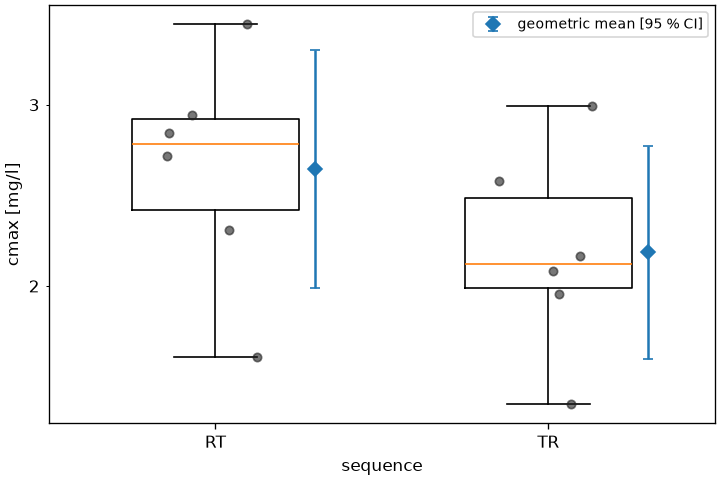
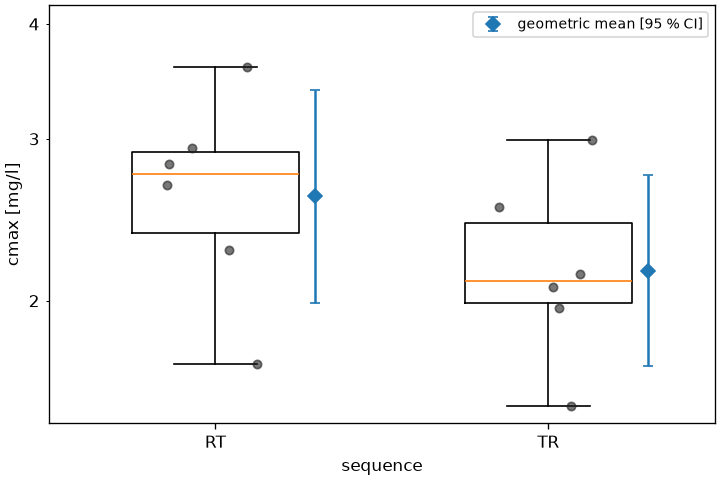
Make room above the data for the legend of a parameter plot
The legend of plot_parameters went where loc="best" put it, which avoids points and lines but not error bars: it covered the interval of a group in a single figure and points, boxes and intervals in the panels of a caller's figure, and elsewhere sat right on the cap of an interval.

legend_above_data in plot/_common.py draws the legend in the upper right corner of the axes, one row when that fits the width of the axes and one column otherwise, measures its height against the axes on the drawn figure as annotation_room does, and raises the top of the y axis until the data ends a small gap below it, on a logarithmic axis by the same share of its decades. The room is measured when the function runs, so a layout the caller changes heavily afterwards can bring the data back under the legend, the limitation make_room_right shares. A legend outside the axes was the alternative, but without a layout engine it runs into titles and neighbouring panels, and with one a single row collapses narrow panels.

The figure of the bioequivalence example in the documentation is rendered again.

diff --git a/tests/plot/test_plot_parameters.py b/tests/plot/test_plot_parameters.py
@@ -7,8 +7,10 @@ import pytest
 import xarray as xr
 from matplotlib import cbook
 from matplotlib.axes import Axes
+from matplotlib.collections import LineCollection
 from matplotlib.container import ErrorbarContainer
 from matplotlib.figure import Figure
+from matplotlib.lines import Line2D
 
 from pkpdutils import Route, Timecourses, nca
 from pkpdutils.plot import plot_parameters
@@ -305,4 +307,89 @@ def test_plot_parameters_log_without_positive_values_stays_linear() -> None:
     legend = ax.get_legend()
     assert legend is not None
     assert [text.get_text() for text in legend.get_texts()] == ["mean [95 % CI]"]
+    matplotlib.pyplot.close(fig)
+
+
+def _covered_by_legend(ax: Axes) -> list[str]:
+    """The data artists of `ax` the legend covers on the drawn canvas.
+
+    A point is covered when its marker reaches into the legend, a line of a
+    box when it crosses the legend and an error bar when its bar does.
+    """
+    figure = ax.get_figure(root=True)
+    assert isinstance(figure, Figure)
+    figure.canvas.draw()
+    legend = ax.get_legend()
+    assert legend is not None
+    box = legend.get_window_extent()
+    covered = []
+    for line in ax.lines:
+        path = line.get_transform().transform_path(line.get_path())
+        if line.get_linestyle() == "None":
+            grown = box.padded(line.get_markersize() * figure.dpi / 72.0 / 2.0)
+            vertices = np.asarray(path.vertices, dtype=float)
+            points = vertices[np.isfinite(vertices).all(axis=1)]
+            if any(grown.contains(float(x), float(y)) for x, y in points):
+                covered.append(f"marker {line.get_marker()}")
+        elif path.intersects_bbox(box, filled=False):
+            covered.append("box")
+    for collection in ax.collections:
+        for segment in collection.get_paths():
+            path = collection.get_transform().transform_path(segment)
+            if path.intersects_bbox(box, filled=False):
+                covered.append("error bar")
+    return covered
+
+
+_LEGEND_GROUPS = {
+    "A": [1.0, 2.0, 4.0, 8.0],
+    "B": [0.0, -1.0, -2.0, 0.0],
+    "C": [5.0],
+    "D": [2.0, 4.0, 8.0, -1.0],
+}
+
+
+@pytest.mark.parametrize(
+    ("shape", "layout"),
+    [
+        (None, None),
+        ((1, 2), None),
+        ((1, 2), "constrained"),
+        ((2, 1), None),
+        ((2, 1), "constrained"),
+    ],
+    ids=["figure", "1x2", "1x2-constrained", "2x1", "2x1-constrained"],
+)
+def test_plot_parameters_legend_covers_no_data(
+    shape: tuple[int, int] | None, layout: str | None
+) -> None:
+    # the legend used to go where `loc="best"` put it, which ignores the error
+    # bars: with these groups it sat on the interval of D
+    result = _grouped_result(_LEGEND_GROUPS)
+    with warnings.catch_warnings():
+        warnings.simplefilter("error")
+        if shape is None:
+            fig = plot_parameters(result, "value", "individual", by="group", log_y=True)
+            axes = fig.axes
+        else:
+            fig, grid = matplotlib.pyplot.subplots(*shape, layout=layout)
+            axes = list(grid.flat)
+            for ax in axes:
+                ax.set_title("a panel")
+            for ax in axes:
+                plot_parameters(
+                    result, "value", "individual", by="group", log_y=True, ax=ax
+                )
+        for ax in axes:
+            assert _covered_by_legend(ax) == []
+    # the entries are the markers of the statistics with their error bars
+    legend = axes[0].get_legend()
+    assert legend is not None
+    assert [text.get_text() for text in legend.get_texts()] == [
+        "geometric mean [95 % CI]",
+        "mean [95 % CI]",
+    ]
+    markers = {str(line.get_marker()) for line in legend.findobj(Line2D)}
+    assert {"D", "s"} <= markers
+    assert legend.findobj(LineCollection)  # the bars of the error bars
     matplotlib.pyplot.close(fig)

diff --git a/tests/plot/test_plot_common.py b/tests/plot/test_plot_common.py
@@ -6,6 +6,8 @@ import matplotlib.pyplot
 import numpy as np
 import pytest
 import xarray as xr
+from matplotlib.axes import Axes
+from matplotlib.figure import Figure
 from matplotlib.patches import Rectangle
 
 from pkpdutils import Dose, Dosing, Route
@@ -20,6 +22,7 @@ from pkpdutils.plot._common import (
     format_value,
     group_colors,
     group_order,
+    legend_above_data,
     log_scale,
     make_room_right,
     plain_log_ticks,
@@ -252,6 +255,60 @@ def test_annotate_column_writes_one_text_per_row() -> None:
     ax.plot([1.0, 2.0], [0.0, 1.0])
     annotate_column(ax, [(0.0, "a"), (1.0, "b")], 0.7)
     assert [text.get_text() for text in ax.texts] == ["a", "b"]
+    matplotlib.pyplot.close(fig)
+
+
+def _data_top(ax: Axes) -> float:
+    """The highest pixel of the lines, markers and error bars of `ax` on the drawn canvas."""
+    figure = ax.get_figure(root=True)
+    assert isinstance(figure, Figure)
+    tops = []
+    for line in ax.lines:
+        points = line.get_transform().transform(np.asarray(line.get_xydata()))
+        radius = line.get_markersize() * figure.dpi / 72.0 / 2.0
+        tops.append(float(np.nanmax(points[:, 1])) + radius)
+    for collection in ax.collections:
+        for path in collection.get_paths():
+            points = collection.get_transform().transform(path.vertices)
+            tops.append(float(np.nanmax(points[:, 1])))
+    return max(tops)
+
+
+@pytest.mark.parametrize("log", [False, True])
+def test_legend_above_data_raises_the_top_above_the_data(log: bool) -> None:
+    fig, ax = matplotlib.pyplot.subplots(layout="constrained")
+    x = np.arange(1.0, 6.0)
+    line = ax.plot(x, [1.0, 3.0, 10.0, 30.0, 100.0], marker="o", label="individuals")
+    bar = ax.errorbar([5.3], [60.0], yerr=[[20.0], [40.0]], marker="D", capsize=3)
+    bar.set_label("mean [95 % CI]")
+    if log:
+        log_scale(ax, "y")
+    low, high = ax.get_ylim()
+    legend = legend_above_data(ax, [line[0], bar])
+    assert legend is ax.get_legend() and legend is not None
+    assert ax.get_ylim()[0] == low
+    assert ax.get_ylim()[1] > high
+    fig.canvas.draw()
+    assert _data_top(ax) < legend.get_window_extent().y0
+    # a wide axes takes the legend in one row
+    assert len({text.get_window_extent().y0 for text in legend.get_texts()}) == 1
+    assert legend_above_data(ax, []) is None
+    matplotlib.pyplot.close(fig)
+
+
+def test_legend_above_data_is_one_column_in_a_narrow_axes() -> None:
+    fig, axes = matplotlib.pyplot.subplots(1, 3, layout="constrained")
+    for ax in axes:
+        line = ax.plot([1.0, 2.0], [1.0, 100.0], marker="o", label="individuals")
+        bar = ax.errorbar([2.2], [60.0], yerr=[[20.0], [40.0]], marker="D")
+        bar.set_label("mean [95 % CI]")
+        legend = legend_above_data(ax, [line[0], bar])
+        assert legend is not None
+    fig.canvas.draw()
+    legend = axes[0].get_legend()
+    assert legend is not None
+    assert len({text.get_window_extent().y0 for text in legend.get_texts()}) == 2
+    assert _data_top(axes[0]) < legend.get_window_extent().y0
     matplotlib.pyplot.close(fig)
 
 

diff --git a/src/pkpdutils/plot/_common.py b/src/pkpdutils/plot/_common.py
@@ -11,6 +11,7 @@ from matplotlib.axes import Axes
 from matplotlib.axis import Axis
 from matplotlib.figure import Figure
 from matplotlib.font_manager import FontProperties
+from matplotlib.legend import Legend
 from matplotlib.ticker import LogFormatter
 
 from pkpdutils.plot.style import DEFAULT_STYLE, PlotStyle
@@ -398,6 +399,67 @@ def make_room_right(ax: Axes, share: float = ANNOTATION_ROOM) -> float:
     else:
         ax.set_xlim(low, high + share * (high - low))
     return 1.0 / (1.0 + share)
+
+
+#: the gap between the data and a legend drawn above it (`legend_above_data`),
+#: as a share of the font size of the legend
+LEGEND_GAP = 0.8
+
+#: the largest share of the height of an axes `legend_above_data` gives to the
+#: legend, so that the data keeps at least the rest of it
+LEGEND_MAX_SHARE = 0.5
+
+
+def legend_above_data(
+    ax: Axes, handles: Sequence[Any], *, fontsize: str | float = "small"
+) -> Legend | None:
+    """Draw a legend in the upper right corner of `ax`, in room made above the data.
+
+    The automatic placement of matplotlib (`loc="best"`) avoids points and
+    lines but not error bars, so a legend inside the axes can cover what it
+    explains. This legend is one row when that fits the width of the axes and
+    one column otherwise, and the top of the y axis is raised until the data
+    ends a gap (`LEGEND_GAP`) below it, on a logarithmic axis by the same
+    share of its decades. The heights are measured on the drawn figure, as in
+    `annotation_room`, so call it once the figure is laid out: a title or a
+    panel added afterwards takes height from the axes and can bring the data
+    back under the legend, unless the caller sets the limits.
+
+    Args:
+        ax: the axes, with its data, scale and labels already drawn.
+        handles: the entries of the legend, artists or containers carrying
+            their labels.
+
+    Keyword Args:
+        fontsize: font size of the legend.
+
+    Returns:
+        The legend, `None` without handles.
+    """
+    if not handles:
+        return None
+    figure = ax.get_figure(root=True)
+    assert isinstance(figure, Figure)
+    legend = ax.legend(
+        handles=list(handles), loc="upper right", ncols=len(handles), fontsize=fontsize
+    )
+    figure.draw_without_rendering()
+    size = legend.prop.get_size_in_points() * figure.dpi / 72.0
+    if (
+        legend.get_window_extent().width + 2.0 * legend.borderaxespad * size
+        > ax.bbox.width
+    ):
+        legend = ax.legend(handles=list(handles), loc="upper right", fontsize=fontsize)
+        figure.draw_without_rendering()
+    needed = ax.bbox.y1 - legend.get_window_extent().y0 + LEGEND_GAP * size
+    share = min(needed / max(ax.bbox.height, 1.0), LEGEND_MAX_SHARE)
+    low, high = ax.get_ylim()
+    stretch = 1.0 / (1.0 - share)
+    if ax.get_yscale() == "log" and low > 0.0:
+        ax.set_ylim(low, low * (high / low) ** stretch)
+    else:
+        ax.set_ylim(low, low + (high - low) * stretch)
+    return legend
 
 
 def annotate_column(

diff --git a/src/pkpdutils/plot/parameters.py b/src/pkpdutils/plot/parameters.py
@@ -7,7 +7,13 @@ import numpy as np
 from matplotlib.axes import Axes
 from matplotlib.figure import Figure
 
-from pkpdutils.plot._common import axis_label, figure_of, log_scale, unit_label
+from pkpdutils.plot._common import (
+    axis_label,
+    figure_of,
+    legend_above_data,
+    log_scale,
+    unit_label,
+)
 from pkpdutils.plot.style import DEFAULT_STYLE, PlotStyle
 from pkpdutils.result import ParameterResult
 from pkpdutils.stats.sample import ParameterSample, Scale, coerce, summarize
@@ -48,7 +54,10 @@ def plot_parameters(
     The legend names the marker of every statistic once for the figure
     (`geometric mean [95 % CI]`, `mean [...]` with `scale=Scale.LINEAR` or
     for the groups which fall back to it); the groups themselves are the
-    ticks of the x axis and stay out of it.
+    ticks of the x axis and stay out of it. It sits in the upper right corner
+    in room made above the data (`legend_above_data`), so it covers no point,
+    box or interval; the room is measured on the figure as laid out when the
+    function returns.
 
     Args:
         result: the result the parameter is taken from.
@@ -175,18 +184,14 @@ def plot_parameters(
             else statistic_label[effective_scale],
         )
         handles.setdefault(effective_scale, container)
-    if handles:
-        # only the statistics are named: the groups are the ticks of the x axis
-        ax.legend(
-            handles=[
-                handles[s] for s in dict.fromkeys((scale, Scale.LINEAR)) if s in handles
-            ],
-            fontsize="small",
-        )
     ax.set_xticks(positions, list(groups))
     ax.set_ylabel(axis_label(name, unit_label(sample.unit)))
     if by is not None:
         ax.set_xlabel(by)
     if log_axis:
         log_scale(ax, "y")
+    # only the statistics are named: the groups are the ticks of the x axis
+    legend_above_data(
+        ax, [handles[s] for s in dict.fromkeys((scale, Scale.LINEAR)) if s in handles]
+    )
     return fig
